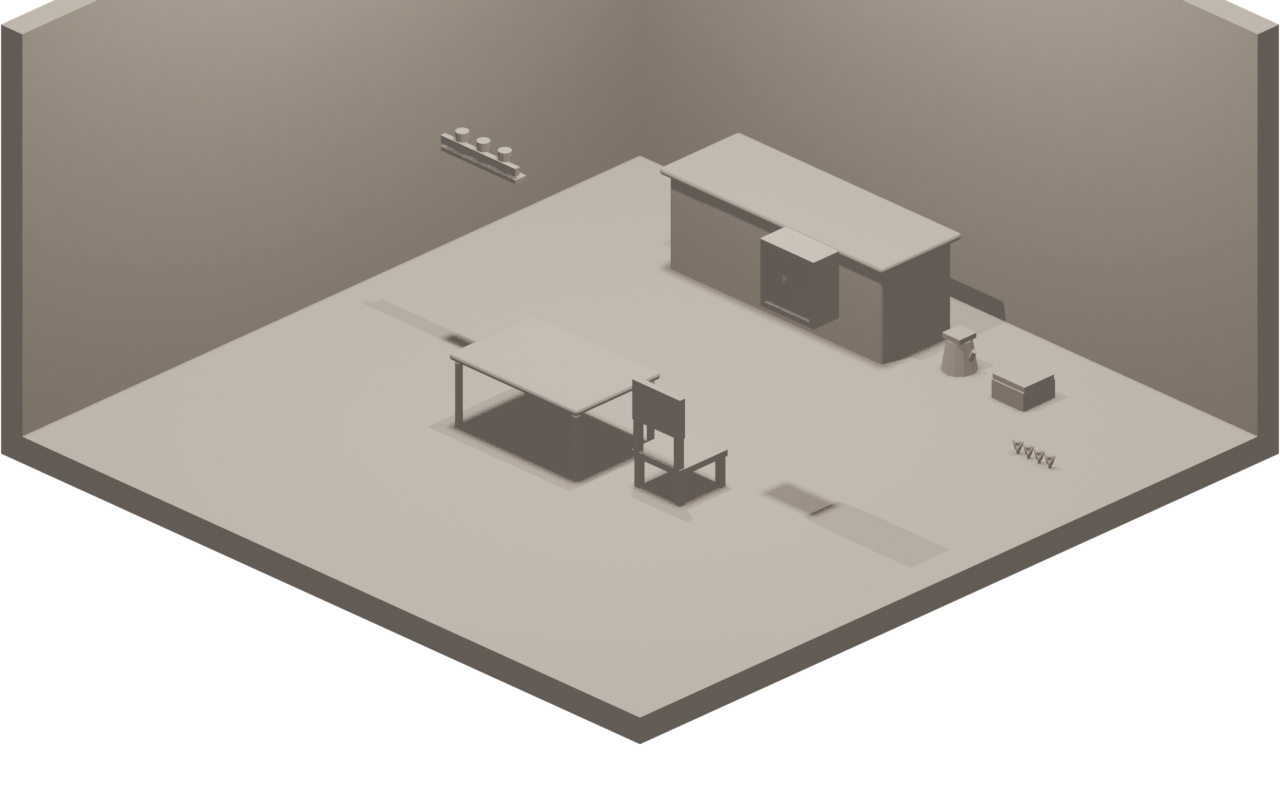
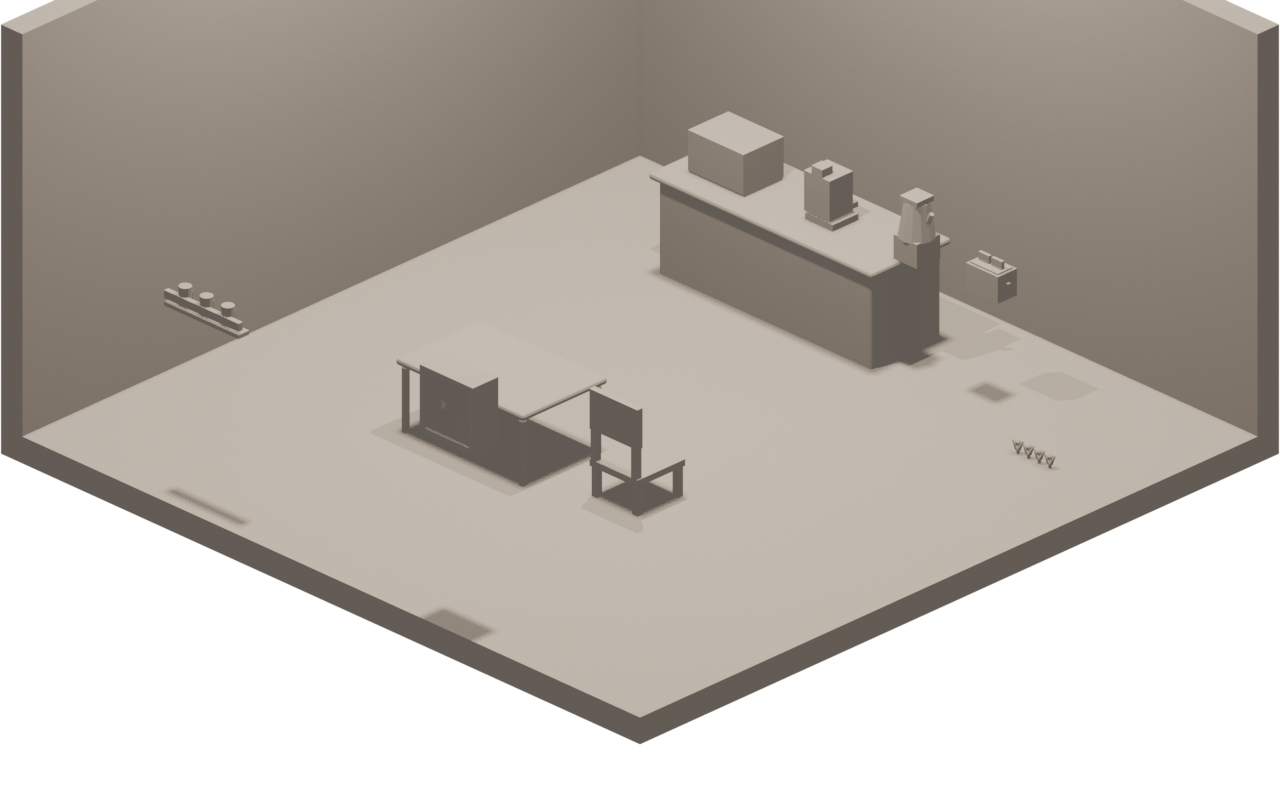
feat: wall tests + cozinha afinada (eletros na bancada, parede N)

diff --git a/ios-app/Polyroom/Tests/RoomStoreTests.swift b/ios-app/Polyroom/Tests/RoomStoreTests.swift
@@ -72,6 +72,28 @@ final class RoomStoreTests: XCTestCase {
         XCTAssertEqual(store.selectedId, copy.id)
     }
 
+    func testWallItemGoesToNorthWall() {
+        var catalog = Catalog(items: [])
+        let store = RoomStore(currentRoom: .sala, save: RoomSave(), catalog: catalog, autosaveEnabled: false)
+        // sem catálogo, detecção por nome ainda vale para quadro
+        let item = store.place(catalogId: "arte_quadro_grande", x: 1.0, z: 1.0)
+        XCTAssertEqual(item.mount, "wallN")
+        XCTAssertEqual(item.z, RoomStore.wallZ, accuracy: 0.001)
+        XCTAssertEqual(item.y, RoomStore.wallY, accuracy: 0.001)
+        store.move(id: item.id, x: 2.0, z: 2.0)
+        let moved = store.item(id: item.id)!
+        XCTAssertEqual(moved.x, 2.0, accuracy: 0.001)
+        XCTAssertEqual(moved.z, RoomStore.wallZ, accuracy: 0.001)
+        _ = catalog
+    }
+
+    func testFloorItemStaysOnFloor() {
+        let store = makeStore()
+        let item = store.place(catalogId: "kit_moveis_cadeira", x: 0.5, z: 0.5)
+        XCTAssertEqual(item.mount, "floor")
+        XCTAssertEqual(item.y, 0, accuracy: 0.001)
+    }
+
     func testSaveRoundtrip() throws {
         let store = makeStore()
         let item = store.place(catalogId: "kit_moveis_cadeira", x: 0.5, z: -0.5)
